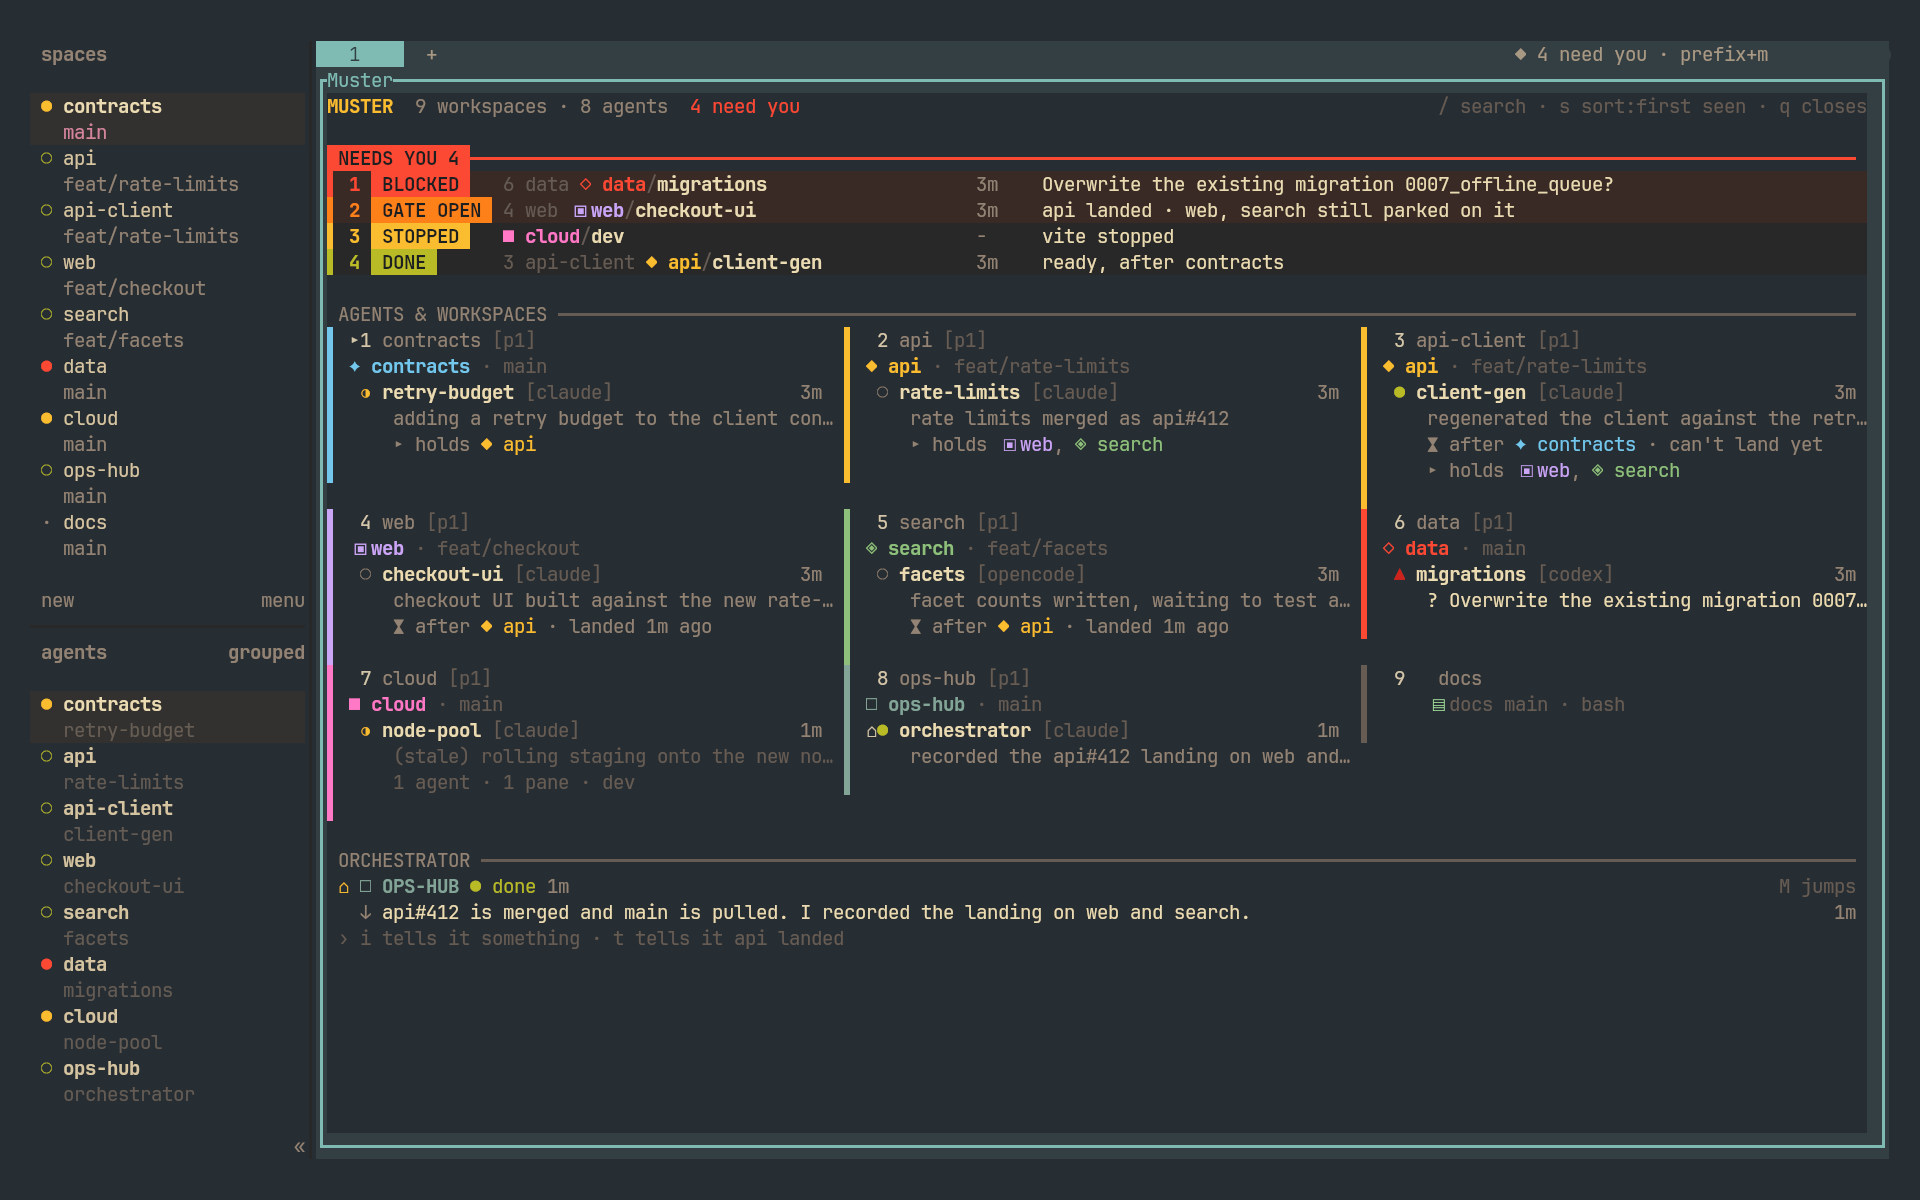
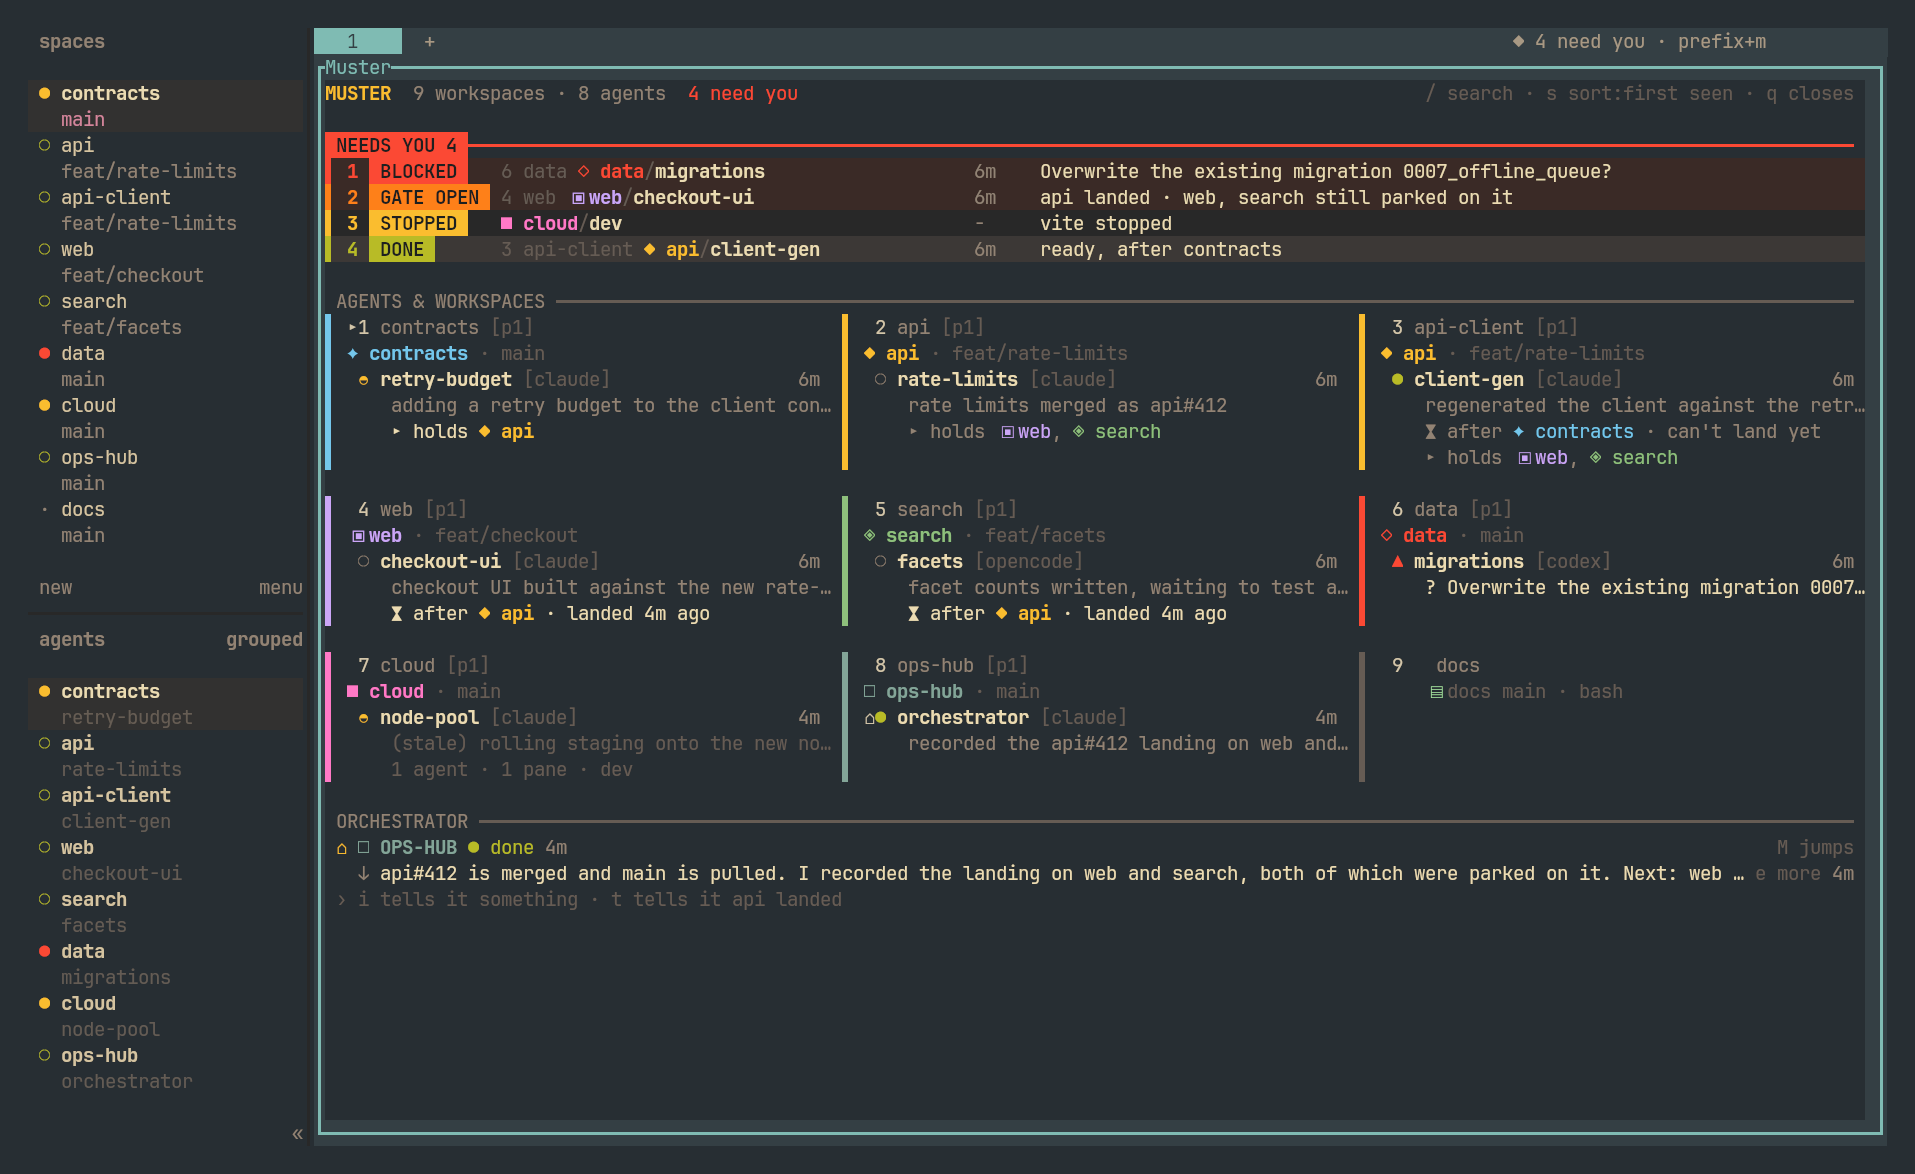
ui: show the orchestrator's whole last message with e
The strip cut the orchestrator's reply to one line, and the daemon kept
only 200 characters of its first paragraph. The daemon now keeps up to
4000 characters and every paragraph. When the reply is cut, the strip
ends it with "e more"; e or a click on the link shows all of it, wrapped
over at most half the screen, and e, esc or "e less" folds it again.
The screenshot is retaken with a reply long enough to show the link.

diff --git a/internal/ui/strip.go b/internal/ui/strip.go
@@ -9,6 +9,7 @@ import (
 	"time"
 
 	"github.com/charmbracelet/lipgloss"
+	"github.com/charmbracelet/x/ansi"
 
 	"github.com/ofelcan164/muster/internal/model"
 )
@@ -61,7 +62,9 @@ func (m *Model) stripLines(startY int) []string {
 	}
 	out = append(out, fitLine(head, m.width))
 
-	out = append(out, m.saidLine(o))
+	// Before the region loop below, so a click on the more link finds the
+	// link's region first and toggles rather than jumps.
+	out = append(out, m.saidLines(o, startY+len(out))...)
 
 	// The offer is its own click target, so it is drawn after the lines that
 	// belong to the orchestrator and skipped by the region loop below. A click
@@ -140,17 +143,19 @@ func (m *Model) orchWho(o model.Orchestrator) string {
 	return styFG.Bold(true).Render(strings.ToUpper(name))
 }
 
-// saidLine is the strip's one message line: what the orchestrator last said,
-// and how long ago that was.
+// saidLines is the strip's message: what the orchestrator last said, and how
+// long ago that was. One line cut to the width, with a more link when that cut
+// anything, or the whole message wrapped while e has it expanded. y is the
+// screen line the first of them lands on.
 //
 // Only the reply. What it was told is the half you already know, because you
 // are the one who typed it, and it is still on the orchestrator's own card and
 // in musterd dump for the times you want it. The age is the point of the line
 // as much as the text is: a sentence with no clock on it cannot be told from
 // one that has been sitting there since this morning.
-func (m *Model) saidLine(o model.Orchestrator) string {
+func (m *Model) saidLines(o model.Orchestrator, y int) []string {
 	if o.LastSaid == "" {
-		return styFaint.Render(fitLine("   ↓ nothing said yet", m.width))
+		return []string{styFaint.Render(fitLine("   ↓ nothing said yet", m.width))}
 	}
 
 	age := ""
@@ -160,12 +165,41 @@ func (m *Model) saidLine(o model.Orchestrator) string {
 	// The arrow and the age both hold their columns, so the sentence gets
 	// whatever is left rather than pushing the clock off the end of the line.
 	head := styMeta.Render("   ↓ ")
-	room := m.width - lipgloss.Width(head) - lipgloss.Width(age) - 1
-	line := head + styFG.Render(truncate(o.LastSaid, max(10, room)))
-	if gap := m.width - lipgloss.Width(line) - lipgloss.Width(age); gap > 0 {
-		line += strings.Repeat(" ", gap) + age
+	room := max(10, m.width-lipgloss.Width(head)-lipgloss.Width(age)-1)
+	withAge := func(line string) string {
+		if gap := m.width - lipgloss.Width(line) - lipgloss.Width(age); gap > 0 {
+			line += strings.Repeat(" ", gap) + age
+		}
+		return fitLine(line, m.width)
 	}
-	return fitLine(line, m.width)
+
+	text := strings.TrimSpace(o.LastSaid)
+	if !m.sayMore {
+		// Paragraph breaks are for the expanded view; one line has no room.
+		text := strings.ReplaceAll(text, "\n", " ")
+		if lipgloss.Width(text) <= room {
+			return []string{withAge(head + styFG.Render(text))}
+		}
+		const more = " e more"
+		line := head + styFG.Render(truncate(text, room-len(more)))
+		m.noteRegion(y, lipgloss.Width(line), lipgloss.Width(line)+len(more)-1, moreTarget)
+		return []string{withAge(line + styHint.Render(more))}
+	}
+
+	// Half the screen at most, so the grid above keeps somewhere to be.
+	wrapped := strings.Split(ansi.Wrap(text, room, ""), "\n")
+	if limit := max(3, m.height/2); len(wrapped) > limit {
+		wrapped = wrapped[:limit]
+		wrapped[limit-1] = truncate(wrapped[limit-1], room-1) + "…"
+	}
+	out := []string{withAge(head + styFG.Render(wrapped[0]))}
+	indent := strings.Repeat(" ", lipgloss.Width(head))
+	for _, w := range wrapped[1:] {
+		out = append(out, fitLine(indent+styFG.Render(w), m.width))
+	}
+	const less = "e less"
+	m.noteRegion(y+len(out), len(indent), len(indent)+len(less)-1, moreTarget)
+	return append(out, fitLine(indent+styHint.Render(less), m.width))
 }
 
 // stripFooter is the last line of the strip: the input while it is open, then

diff --git a/internal/daemon/said.go b/internal/daemon/said.go
@@ -20,11 +20,11 @@ import (
 // it is halfway through writing.
 
 // saidLines is how far back to look, and saidMax caps what is kept. The strip
-// shows one line and truncates to the width anyway; the cap is only so a pasted
-// wall of text cannot land in the snapshot.
+// shows one line until e expands it to the whole message, so the cap is only so
+// a pasted wall of text cannot land in the snapshot.
 const (
 	saidLines = 60
-	saidMax   = 200
+	saidMax   = 4000
 )
 
 // orchSay is what the orchestrator last said, and when that was read, if it
@@ -106,7 +106,9 @@ func (d *Daemon) fetchSaid(ctx context.Context, paneID, key string) {
 // alike, and the user's own input with "❯". So the last "●" is the last thing
 // the agent said or did, which is the glance this is for: did it answer, and
 // did it dispatch. Wrapped text continues indented underneath and is joined
-// back on, because half a sentence reads as a bug.
+// back on, because half a sentence reads as a bug. A blank line followed by more
+// indented text is the next paragraph of the same message, kept as a newline
+// so the expanded strip can show it.
 //
 // No other agent marks its own lines, so for them the "●" scan never fires and
 // the fallback carries the strip: the last line with words in it that is not
@@ -125,11 +127,18 @@ func ExtractSaid(text string) string {
 			continue
 		}
 		said := strings.TrimSpace(strings.TrimPrefix(s, "●"))
+		sep := " "
 		for j := i + 1; j < len(lines); j++ {
-			if !strings.HasPrefix(lines[j], "  ") || strings.TrimSpace(lines[j]) == "" {
+			t := strings.TrimSpace(lines[j])
+			if t == "" {
+				sep = "\n"
+				continue
+			}
+			if !strings.HasPrefix(lines[j], "  ") {
 				break
 			}
-			said += " " + strings.TrimSpace(lines[j])
+			said += sep + t
+			sep = " "
 		}
 		return clip(said, saidMax)
 	}

diff --git a/internal/ui/strip_test.go b/internal/ui/strip_test.go
@@ -466,3 +466,44 @@ func TestStripHeadNamesTheRepoNotTheBlock(t *testing.T) {
 		t.Errorf("an orchestrator outside every repo lost its name:\n%s", out)
 	}
 }
+
+// A reply longer than the line gets a more link. e or a click on the link
+// shows all of it, paragraphs included, and esc folds it back before closing.
+func TestSaidExpandsToTheWholeMessage(t *testing.T) {
+	s := withOrch()
+	tail := "and that is the end of the second paragraph"
+	s.Orch.LastSaid = strings.Repeat("api is picking up the schema change. ", 6) + "\n" + tail
+	m := withSnapshot(t, s, 80)
+
+	out := plain(m.View())
+	if !strings.Contains(out, "e more") || strings.Contains(out, tail) {
+		t.Fatalf("a long reply should be cut with a more link:\n%s", out)
+	}
+
+	key(m, "e")
+	out = plain(m.View())
+	if !strings.Contains(out, tail) || !strings.Contains(out, "e less") {
+		t.Fatalf("e should show the whole reply:\n%s", out)
+	}
+
+	key(m, "esc")
+	if m.quit || m.sayMore {
+		t.Fatal("esc should fold the reply, not close the overlay")
+	}
+
+	m.View()
+	var link *hitRegion
+	for i := range m.hits {
+		if m.hits[i].target == moreTarget {
+			link = &m.hits[i]
+		}
+	}
+	if link == nil {
+		t.Fatal("the more link has no click region")
+	}
+	m.Update(tea.MouseMsg{X: link.x0, Y: link.y,
+		Action: tea.MouseActionRelease, Button: tea.MouseButtonLeft})
+	if !m.sayMore || m.jump != "" {
+		t.Errorf("clicking more should expand, not jump (jump=%q)", m.jump)
+	}
+}

diff --git a/internal/daemon/said_test.go b/internal/daemon/said_test.go
@@ -30,6 +30,15 @@ func TestExtractsWhatTheAgentLastSaid(t *testing.T) {
 	}
 }
 
+// The strip can expand to the whole message, so a second paragraph is kept,
+// and the input box after it is not.
+func TestSaidKeepsEveryParagraph(t *testing.T) {
+	text := "● First paragraph that\n  wraps.\n\n  Second one.\n\n❯ \n  ? for shortcuts\n"
+	if got, want := ExtractSaid(text), "First paragraph that wraps.\nSecond one."; got != want {
+		t.Errorf("got  %q\nwant %q", got, want)
+	}
+}
+
 // A tool call is the last thing it said as much as prose is: dispatching is
 // exactly the thing the strip is meant to let you check at a glance.
 func TestATooCallCountsAsSaying(t *testing.T) {
@@ -58,7 +67,7 @@ func TestNothingSaid(t *testing.T) {
 // A wall of pasted text must not land in the snapshot whole.
 func TestSaidIsCapped(t *testing.T) {
 	long := "● "
-	for i := 0; i < 500; i++ {
+	for i := 0; i < saidMax+100; i++ {
 		long += "x"
 	}
 	got := ExtractSaid(long)

diff --git a/internal/ui/mouse.go b/internal/ui/mouse.go
@@ -42,6 +42,10 @@ func (m *Model) handleMouse(msg tea.MouseMsg) (tea.Model, tea.Cmd) {
 	if !ok {
 		return m, nil
 	}
+	if idx == moreTarget {
+		m.sayMore = !m.sayMore
+		return m, nil
+	}
 	if m.isKind(idx, kindBanner) {
 		// The banner is not a selection, so clicking it must not move the
 		// cursor off whatever the keyboard was on.
@@ -61,6 +65,10 @@ type hitRegion struct {
 	x0, x1 int // inclusive
 	target int
 }
+
+// moreTarget is the region of the strip's more/less link. It is no target: the
+// cursor never lands on it, and isActive ignores it like any negative index.
+const moreTarget = -2
 
 // noteRegion records that a target occupies part of a screen line.
 func (m *Model) noteRegion(y, x0, x1, targetIndex int) {

diff --git a/internal/ui/keys.go b/internal/ui/keys.go
@@ -104,6 +104,10 @@ func (m *Model) handleKey(msg tea.KeyMsg) (tea.Model, tea.Cmd) {
 			m.rebuild()
 			return m, nil
 		}
+		if m.sayMore {
+			m.sayMore = false
+			return m, nil
+		}
 		m.quit = true
 		return m, tea.Quit
 
@@ -142,6 +146,14 @@ func (m *Model) handleKey(msg tea.KeyMsg) (tea.Model, tea.Cmd) {
 			m.composing, m.compose = true, ""
 		} else {
 			m.notice = "no orchestrator marked, so there is nobody to tell"
+		}
+		return m, nil
+
+	case "e":
+		// Expand what the orchestrator last said. Not while a filter hides the
+		// strip, for the same reason i refuses.
+		if m.filter == "" && m.snap.Orch.LastSaid != "" {
+			m.sayMore = !m.sayMore
 		}
 		return m, nil
 

diff --git a/internal/ui/model.go b/internal/ui/model.go
@@ -75,6 +75,9 @@ type Model struct {
 	composing bool
 	compose   string
 
+	// sayMore expands the strip's said line to the whole message, wrapped.
+	sayMore bool
+
 	// notice is what just happened, shown on the strip. A full-screen overlay
 	// has nowhere else to report that a send worked or failed.
 	notice string

diff --git a/README.md b/README.md
@@ -121,8 +121,8 @@ In the overlay:
 
 - arrows or `hjkl` move, `/` searches, `enter` jumps to the tile's agent or
   focuses an empty tile's workspace
-- `esc` leaves search, then clears the filter, then closes; `q` or `ctrl+c`
-  closes
+- `esc` leaves search, then clears the filter, then folds the orchestrator's
+  message, then closes; `q` or `ctrl+c` closes
 - `s` cycles sort (first seen, a-z, attention, herdr); `J`/`K` move the
   selected tile's workspace one place in herdr's own order, and only do
   anything in herdr sort; `g`/`G` jump to the ends
@@ -131,12 +131,15 @@ In the overlay:
 - `o` marks the selected agent as the orchestrator
 - `i` messages the orchestrator, `t` tells it about an open gate: work landed
   and the agents parked on it have not moved
+- `e` shows everything the orchestrator last said, not just the one line the
+  strip has room for, and folds it again
 - `S` installs the reporting skill, but only while its banner is on screen
 - `M` jumps to the orchestrator. Muster opens as a herdr popup, which gets
   every key while it is open, your prefix included, so this is what keeps
   `prefix+shift+m` working. `prefix+m` does nothing inside; close with `q` or
   `esc`. `prefix+ctrl+m` arrives as `enter` and jumps to the selected tile
-- mouse: click a tile to jump to it or focus its workspace, click the banner to install the skill, wheel
+- mouse: click a tile to jump to it or focus its workspace, click the banner to install the skill, click
+  `e more` or `e less` on the strip to expand or fold the message, wheel
   scrolls, hover highlights. A click outside Muster does nothing: herdr keeps
   clicks outside a popup to itself
 

diff --git a/CLAUDE.md b/CLAUDE.md
@@ -88,16 +88,16 @@ letter falls back through `m g u y` when the user already bound one, and
 
 Overlay: one tile per agent, one dim lowercase tile per workspace with no
 agents. arrows/`hjkl` move, `enter` jumps to the tile's pane or focuses its
-workspace, `/` searches, `esc` leaves search / clears filter / closes, `s`
+workspace, `/` searches, `esc` leaves search / clears filter / folds the message / closes, `s`
 cycles sort (first seen, a-z, attention, herdr), `J`/`K` move the selected
 tile's workspace one place in herdr's own order and only do anything in herdr
 sort, `g`/`G` ends, `1`-`9` ribbon row, `x` dismisses one, `c` gives the
 hovered or selected tile's repo a random unused colour, `o` marks
-orchestrator, `i` messages it, `t` tells it a gate is open, `S`
+orchestrator, `i` messages it, `t` tells it a gate is open, `e` expands or folds its last message, `S`
 installs the skill while its banner shows, `q`/`ctrl+c` closes, `M` jumps to
 the orchestrator.
 Mouse: click a tile jumps or focuses its workspace, click banner installs
-skill, wheel moves, hover highlights.
+skill, click `e more`/`e less` expands or folds the message, wheel moves, hover highlights.
 
 ## Gotchas
 
